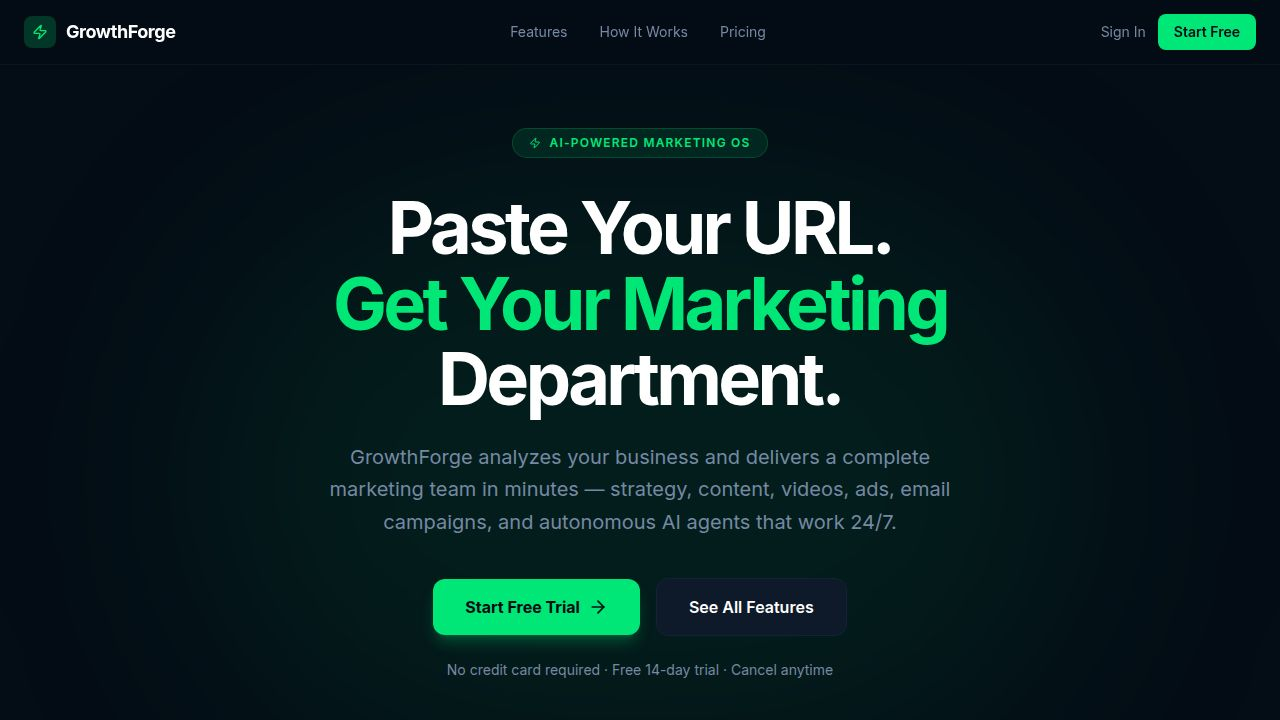
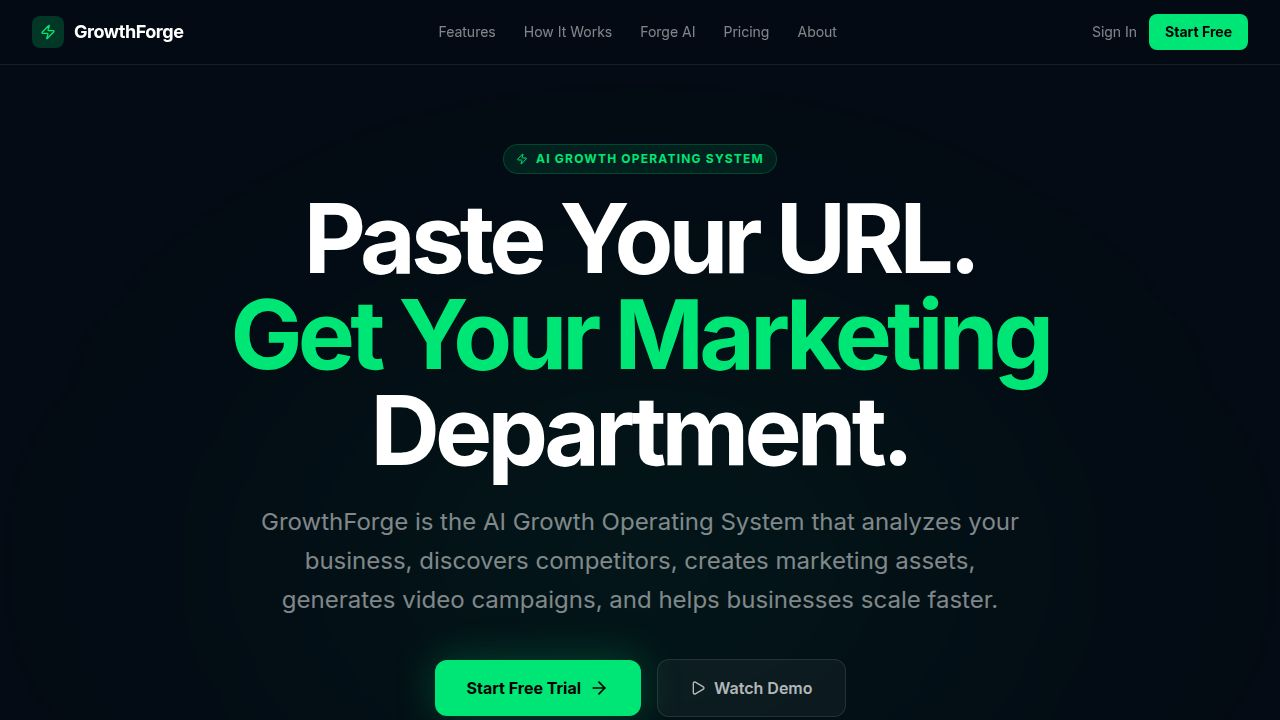
Add a mobile navigation menu and improve site alignment
Introduce a responsive mobile navigation menu accessible via a hamburger icon and ensure consistent content alignment across different screen sizes by adjusting container classes.

Replit-Commit-Author: Agent
Replit-Commit-Session-Id: 7766670a-fb3f-449b-9360-024061613e4f
Replit-Commit-Checkpoint-Type: full_checkpoint
Replit-Commit-Event-Id: 9df32f79-ba4a-424d-85e9-6b706835f75f
Replit-Commit-Screenshot-Url: https://storage.googleapis.com/screenshot-production-us-central1/7eafd981-cf8e-4b10-b71f-544a96af9d3e/7766670a-fb3f-449b-9360-024061613e4f/j1DML81
Replit-Helium-Checkpoint-Created: true

diff --git a/artifacts/growthforge/src/pages/landing.tsx b/artifacts/growthforge/src/pages/landing.tsx
@@ -7,9 +7,10 @@ import {
   Users2, FileText, Share2, Mail, Bot, Star, Bell, X, Clock,
   Play, TrendingUp, Layers, Shield, Cpu, ChevronDown, ChevronUp,
   MessageSquare, Rocket, Globe, Building2, LineChart, Sparkles,
-  LayoutDashboard, Crown,
+  LayoutDashboard, Crown, Menu,
 } from "lucide-react";
 import { useCurrentUser } from "@/hooks/use-current-user";
+import { Sheet, SheetContent, SheetTitle } from "@/components/ui/sheet";
 
 /* ─── Data ─────────────────────────────────────────────────── */
 
@@ -405,6 +406,7 @@ export default function LandingPage() {
   const [earlyAccessPlan, setEarlyAccessPlan] = useState<string | null>(null);
   const [activeTab, setActiveTab] = useState("Analysis");
   const [openFaq, setOpenFaq] = useState<number | null>(null);
+  const [mobileNavOpen, setMobileNavOpen] = useState(false);
   const { user, isLoaded } = useUser();
   const { signOut } = useClerk();
   const [, setLocation] = useLocation();
@@ -420,13 +422,13 @@ export default function LandingPage() {
     }
   }, [isAuthed, isAdmin, setLocation]);
 
-  const W = "w-[93vw] max-w-[1380px] mx-auto";
+  const W = "max-w-[1380px] mx-auto";
 
   return (
     <div className="min-h-screen text-foreground overflow-x-hidden" style={{ background: "#040B14" }}>
 
       {/* ── Nav ── */}
-      <nav className="fixed top-0 inset-x-0 z-50 border-b border-white/8" style={{ background: "rgba(4,11,20,0.85)", backdropFilter: "blur(16px)" }}>
+      <nav className="fixed top-0 inset-x-0 z-50 border-b border-white/8 px-4 sm:px-6 lg:px-8" style={{ background: "rgba(4,11,20,0.85)", backdropFilter: "blur(16px)" }}>
         <div className={`${W} h-16 flex items-center justify-between`}>
           {/* Logo — routes to /admin for admins, /dashboard when signed in, / when not */}
           <Link href={isAdmin ? "/admin" : isAuthed ? "/dashboard" : "/"} className="flex items-center gap-2.5">
@@ -464,6 +466,13 @@ export default function LandingPage() {
                     </UserButton.MenuItems>
                   )}
                 </UserButton>
+                <button
+                  onClick={() => setMobileNavOpen(true)}
+                  className="md:hidden flex items-center justify-center h-9 w-9 rounded-lg text-white/70 hover:text-white hover:bg-white/5 transition-colors"
+                  aria-label="Open menu"
+                >
+                  <Menu className="h-5 w-5" />
+                </button>
               </div>
             </>
           ) : (
@@ -478,14 +487,105 @@ export default function LandingPage() {
               </div>
               <div className="flex items-center gap-3">
                 <Link href="/sign-in" className="text-sm text-white/50 hover:text-white transition-colors hidden md:block">Sign In</Link>
-                <Link href="/sign-up" className="text-sm font-bold px-4 py-2 rounded-lg text-black transition-all hover:scale-[1.02]" style={{ background: "#00E676" }}>
+                <Link href="/sign-up" className="text-sm font-bold px-4 py-2 rounded-lg text-black transition-all hover:scale-[1.02] hidden sm:inline-flex" style={{ background: "#00E676" }}>
                   Start Free
                 </Link>
+                <button
+                  onClick={() => setMobileNavOpen(true)}
+                  className="md:hidden flex items-center justify-center h-9 w-9 rounded-lg text-white/70 hover:text-white hover:bg-white/5 transition-colors"
+                  aria-label="Open menu"
+                >
+                  <Menu className="h-5 w-5" />
+                </button>
               </div>
             </>
           )}
         </div>
       </nav>
+
+      {/* ── Mobile Nav Sheet ── */}
+      <Sheet open={mobileNavOpen} onOpenChange={setMobileNavOpen}>
+        <SheetContent
+          side="right"
+          className="w-[80vw] max-w-sm border-l border-white/10 p-0 flex flex-col"
+          style={{ background: "#040B14" }}
+        >
+          <SheetTitle className="sr-only">Navigation menu</SheetTitle>
+          <div className="flex items-center gap-2.5 px-6 py-5 border-b border-white/8">
+            <div className="h-8 w-8 rounded-lg bg-[#00E676]/20 flex items-center justify-center">
+              <Zap className="h-4 w-4 text-[#00E676]" />
+            </div>
+            <span className="font-bold text-lg tracking-tight text-white">GrowthForge</span>
+          </div>
+
+          <div className="flex flex-col gap-1 px-3 py-4 flex-1 overflow-y-auto">
+            {isAuthed
+              ? (isAdmin ? ADMIN_NAV_LINKS : APP_NAV_LINKS).map(({ label, href, icon: Icon }) => (
+                  <Link
+                    key={label}
+                    href={href}
+                    onClick={() => setMobileNavOpen(false)}
+                    className="flex items-center gap-3 px-3 py-3 rounded-xl text-base text-white/70 hover:text-white hover:bg-white/5 transition-colors"
+                  >
+                    <Icon className="h-4 w-4" />{label}
+                  </Link>
+                ))
+              : NAV_LINKS.map(({ label, href }) =>
+                  href.startsWith("#") ? (
+                    <a
+                      key={label}
+                      href={href}
+                      onClick={() => setMobileNavOpen(false)}
+                      className="px-3 py-3 rounded-xl text-base text-white/70 hover:text-white hover:bg-white/5 transition-colors"
+                    >
+                      {label}
+                    </a>
+                  ) : (
+                    <Link
+                      key={label}
+                      href={href}
+                      onClick={() => setMobileNavOpen(false)}
+                      className="px-3 py-3 rounded-xl text-base text-white/70 hover:text-white hover:bg-white/5 transition-colors"
+                    >
+                      {label}
+                    </Link>
+                  )
+                )}
+          </div>
+
+          <div className="flex flex-col gap-3 p-4 border-t border-white/8">
+            {isAuthed ? (
+              <button
+                onClick={() => {
+                  setMobileNavOpen(false);
+                  signOut(() => setLocation("/"));
+                }}
+                className="w-full text-center text-sm font-semibold px-4 py-3 rounded-xl text-white/70 border border-white/10 hover:text-white hover:bg-white/5 transition-colors"
+              >
+                Sign Out
+              </button>
+            ) : (
+              <>
+                <Link
+                  href="/sign-in"
+                  onClick={() => setMobileNavOpen(false)}
+                  className="w-full text-center text-sm font-semibold px-4 py-3 rounded-xl text-white/70 border border-white/10 hover:text-white hover:bg-white/5 transition-colors"
+                >
+                  Sign In
+                </Link>
+                <Link
+                  href="/sign-up"
+                  onClick={() => setMobileNavOpen(false)}
+                  className="w-full text-center text-sm font-bold px-4 py-3 rounded-xl text-black transition-all"
+                  style={{ background: "#00E676" }}
+                >
+                  Start Free
+                </Link>
+              </>
+            )}
+          </div>
+        </SheetContent>
+      </Sheet>
 
       {/* ── Hero ── */}
       <section className="pt-36 pb-28 px-4 relative overflow-hidden">
@@ -986,7 +1086,7 @@ export default function LandingPage() {
 
       {/* ── FAQ ── */}
       <section className="py-24 px-4 border-t border-white/8">
-        <div className="w-[93vw] max-w-[760px] mx-auto">
+        <div className="max-w-[760px] mx-auto">
           <FadeIn className="text-center mb-12">
             <SectionLabel>FAQ</SectionLabel>
             <h2 className="text-4xl md:text-5xl font-black tracking-tighter text-white mb-4">Frequently Asked Questions</h2>
